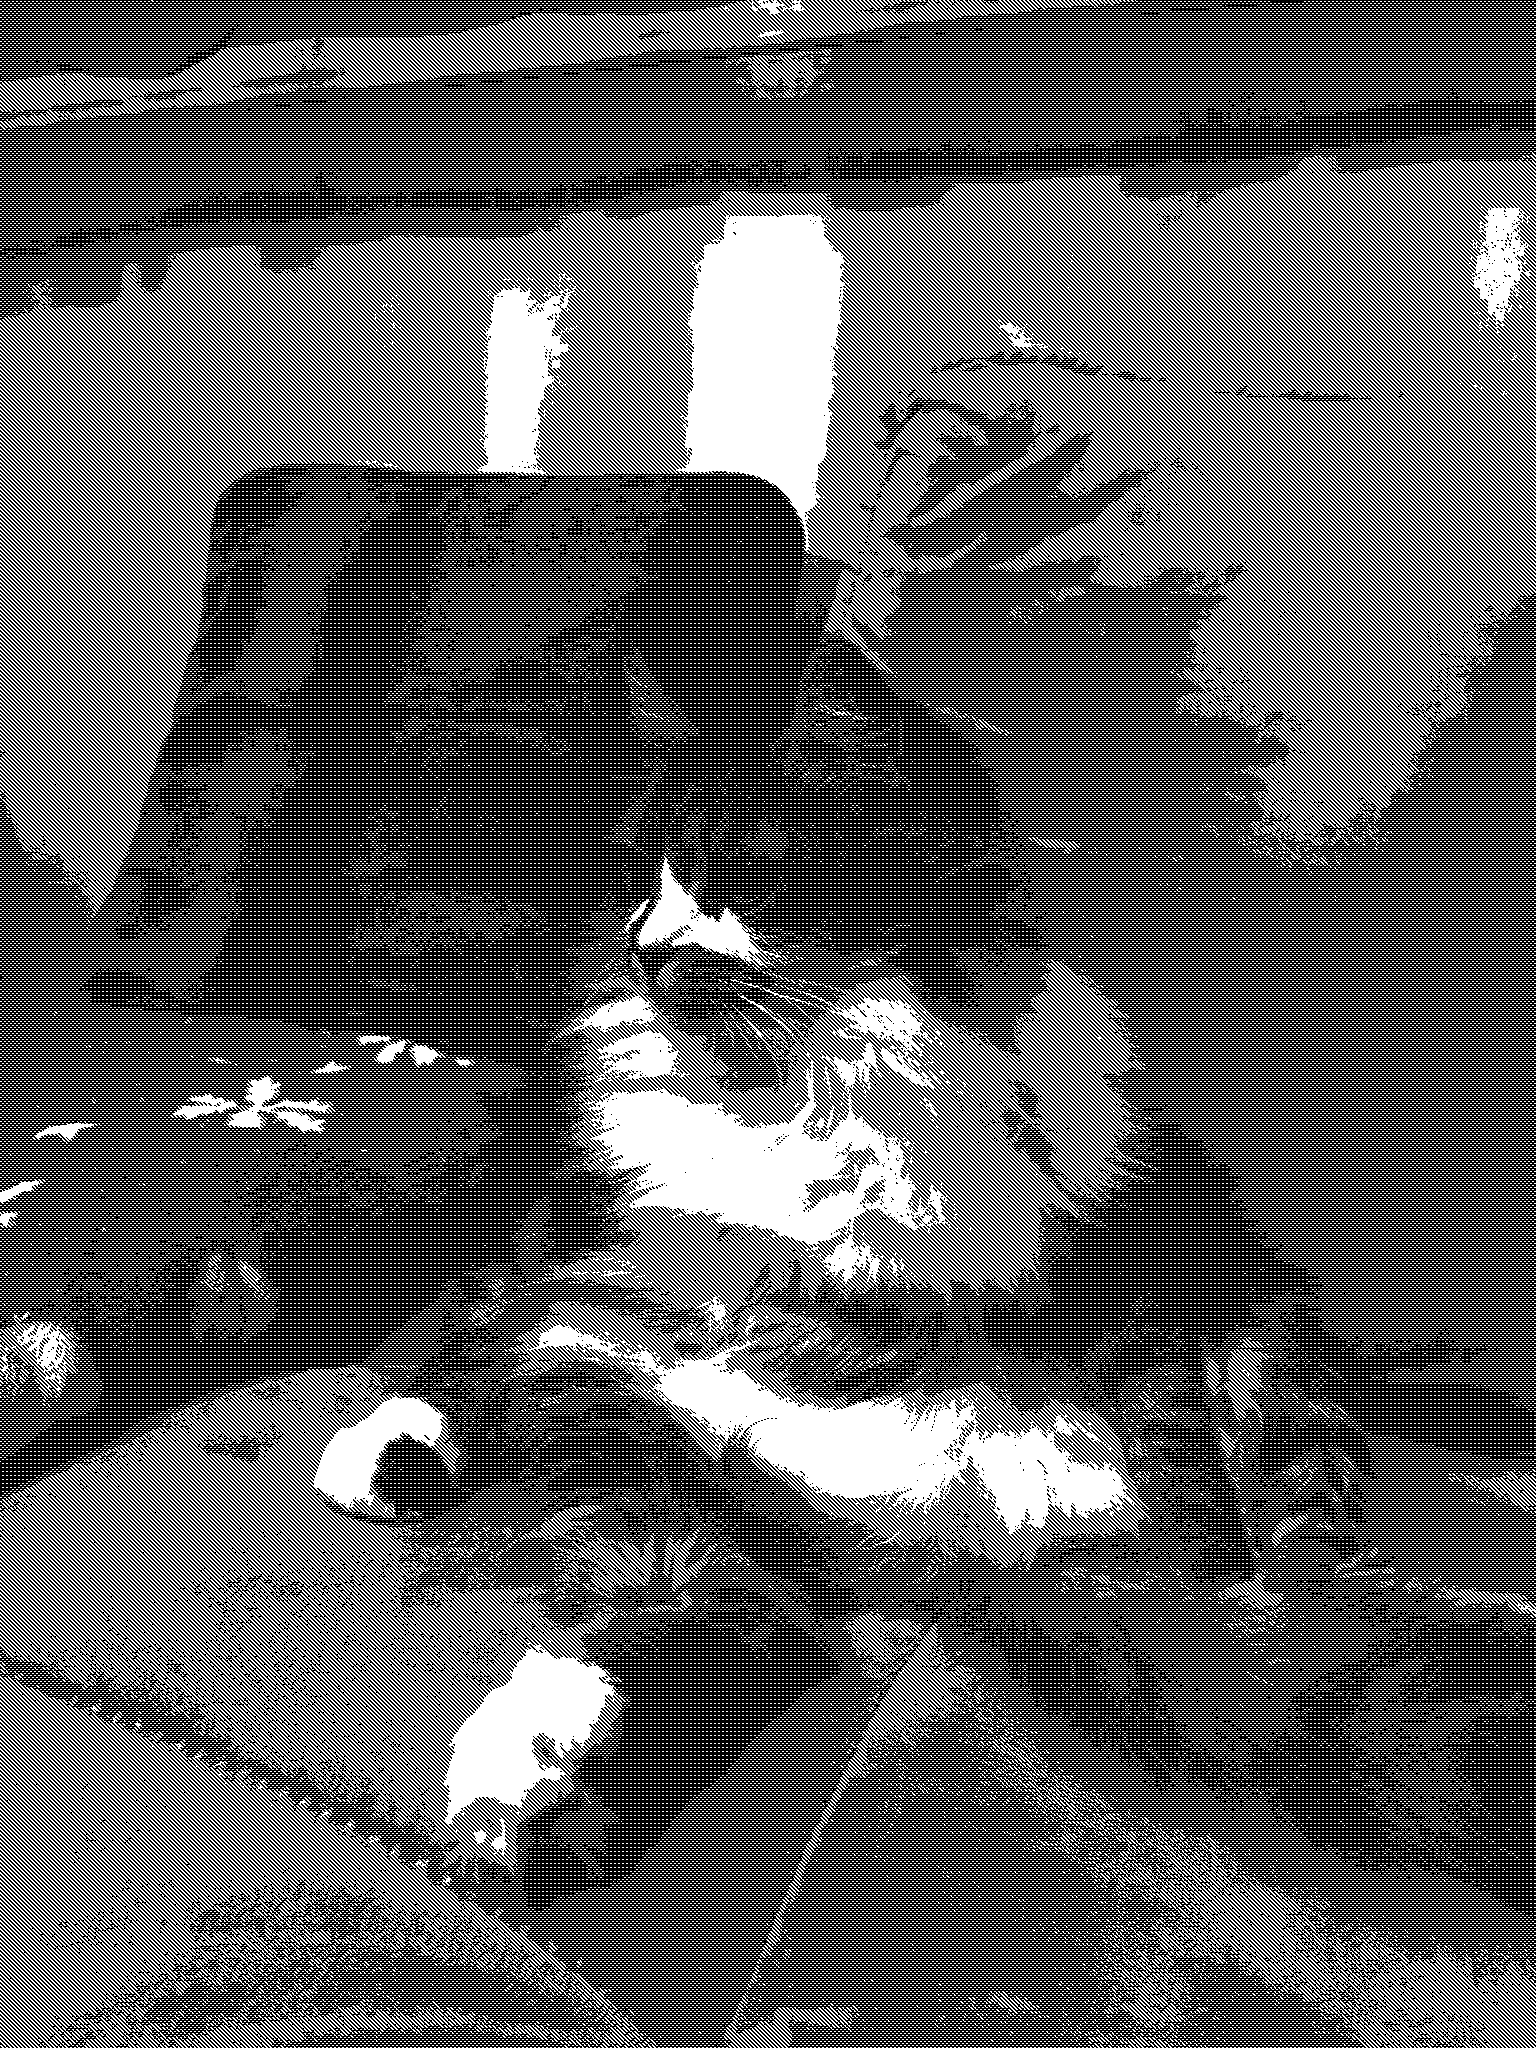
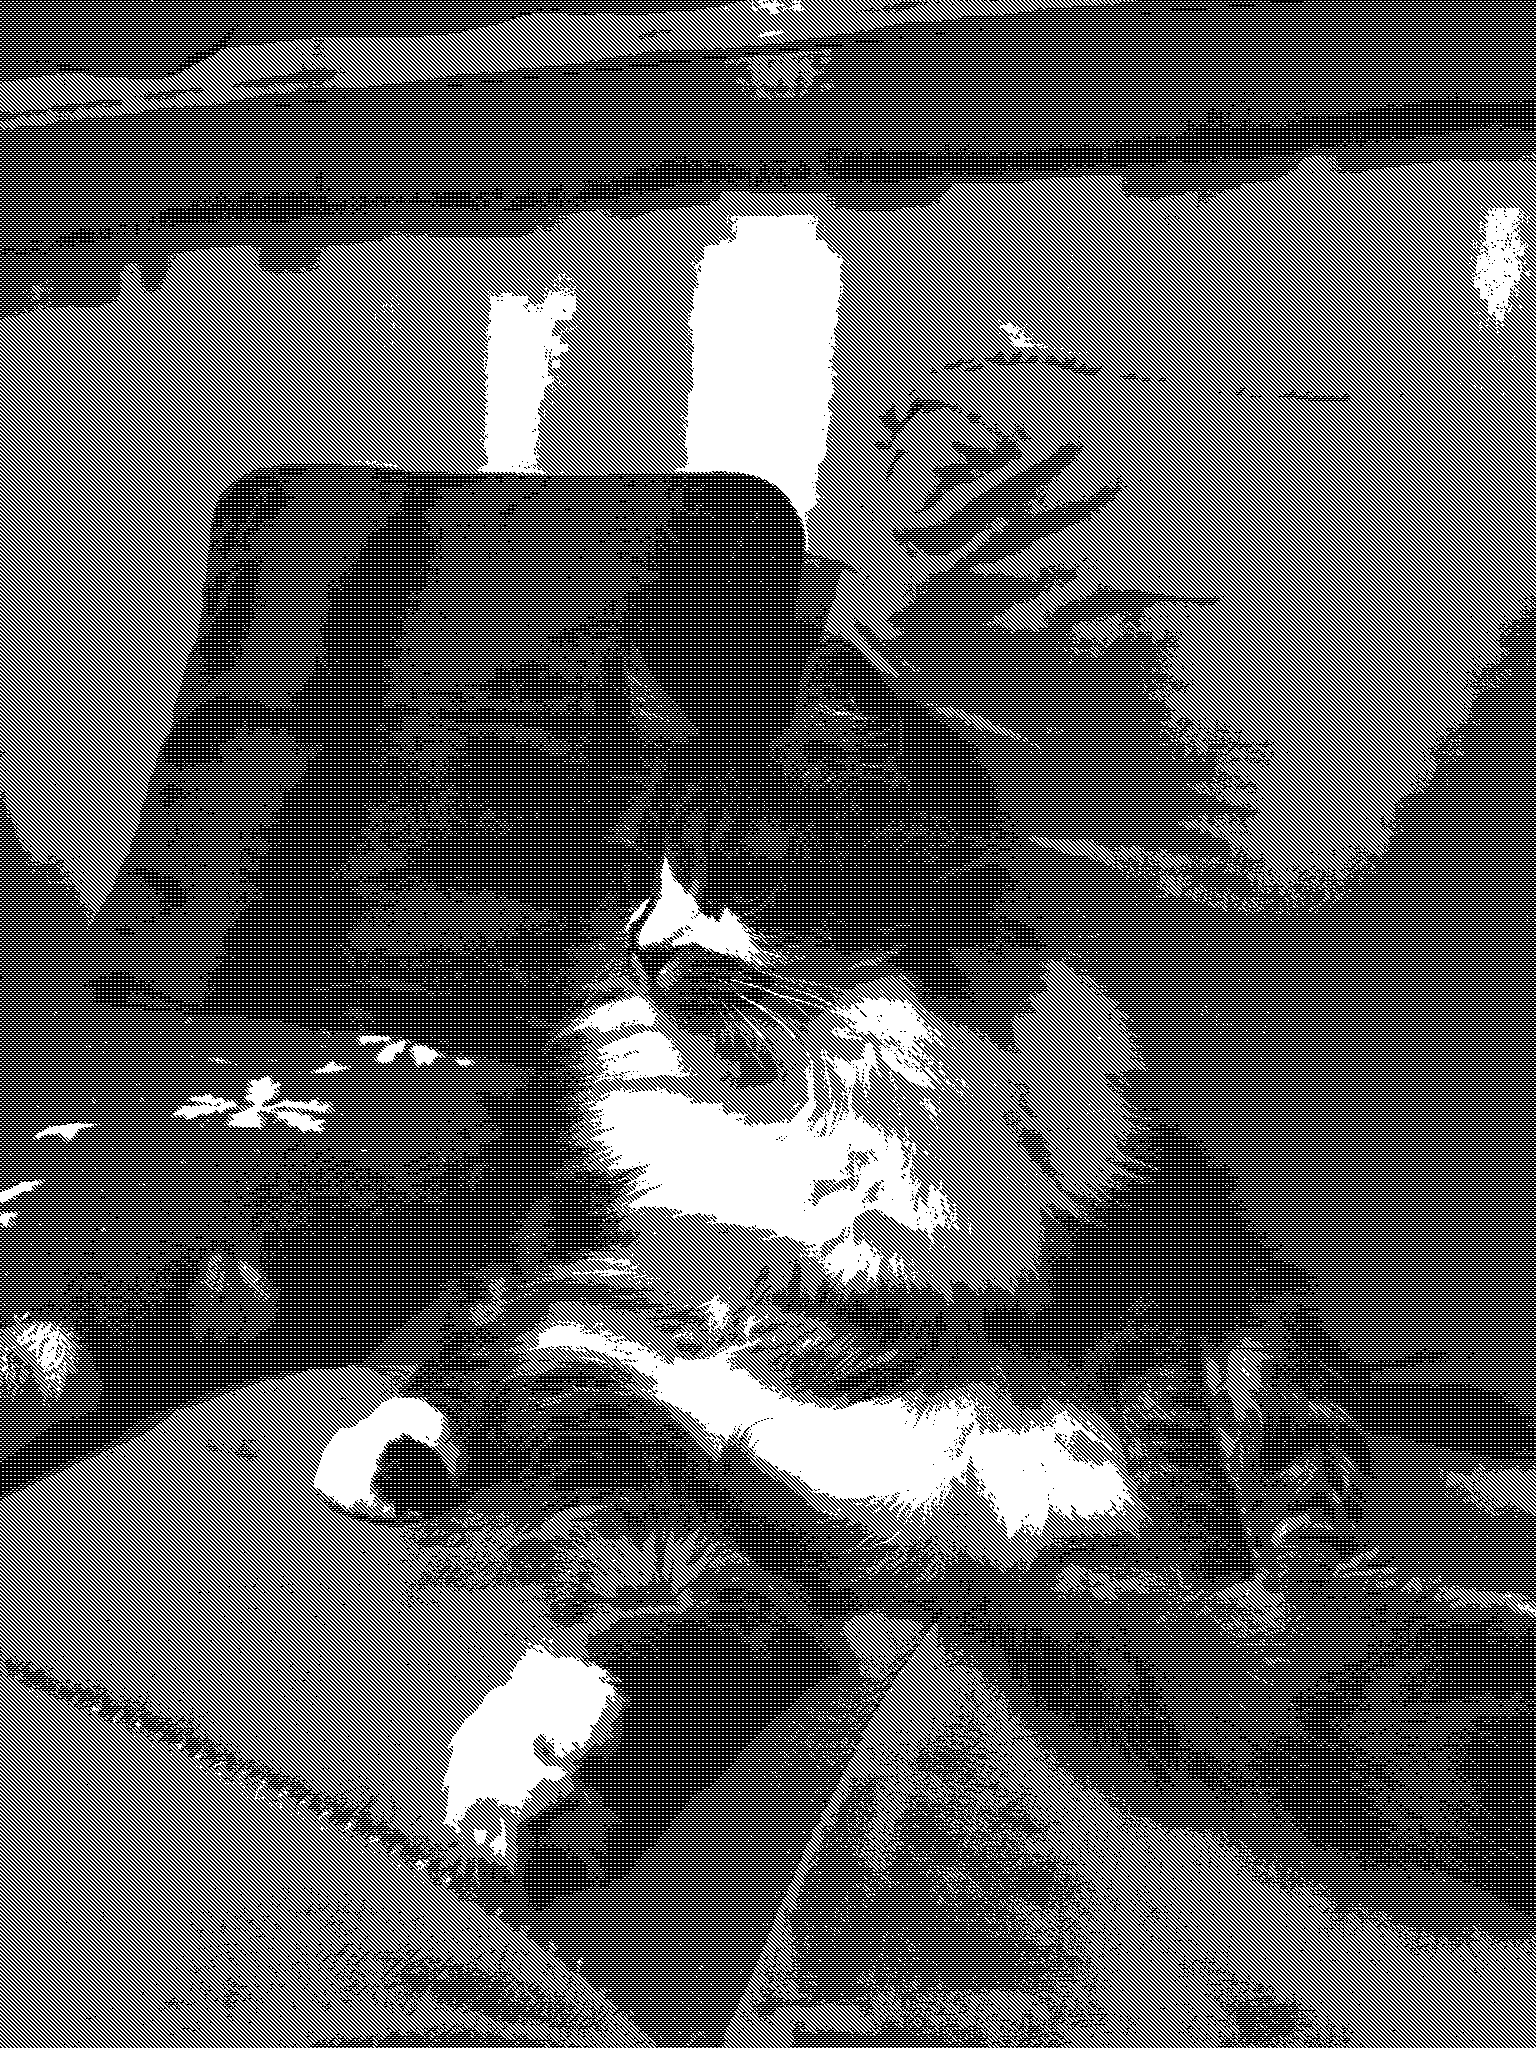
modif3

diff --git a/src/exos_perso.cpp b/src/exos_perso.cpp
@@ -130,8 +130,8 @@ void peinture_huile(sil::Image const& image)
                         // Couleur du pixel voisin
                         glm::vec3 const couleur{image.pixel(px, py)};
 
-                        // Calcul de sa luminosité en faisant la moyenne de ses trois canaux RGB.
-                        float const luminosite{(couleur.r + couleur.g + couleur.b) / 3.f};
+                        // Calcul de sa luminosité
+                        float const luminosite = 0.2126f * couleur.r + 0.7152f * couleur.g + 0.0722f * couleur.b;
 
                         // Attribution du pixel à un niveau de luminosité : la multiplication par nb_niveaux répartit les luminosités entre les différentes catégories
                         // std::min évite de dépasser le dernier indice du tableau
@@ -232,8 +232,8 @@ void hachures(sil::Image const& image)
             // Couleur du pixel original
             glm::vec3 const couleur{image.pixel(x, y)};
 
-            // Luminosité moyenne du pixel à partir des trois canaux RGB
-            float const luminosite{(couleur.r + couleur.g + couleur.b) / 3.f};
+            // Calcul de sa luminosité
+            float const luminosite = 0.2126f * couleur.r + 0.7152f * couleur.g + 0.0722f * couleur.b;
 
             // La couleur de départ est le blanc
             float valeur{1.f};
@@ -315,7 +315,7 @@ void low_poly(sil::Image const& image)
     sil::Image nouvelle_image{image.width(), image.height()};
 
     // Taille des cellules de la grille qui sert à construire les triangles : une petite valeur produit davantage de triangles et conserve plus de détails
-    int const taille{15};
+    int const taille{12};
 
     // Parcours de l'image par cellules carrées de taille "taille"
     for (int x{0}; x < image.width(); x += taille)
@@ -411,8 +411,8 @@ void vision_thermique(sil::Image const& image)
             // Couleur du pixel original
             glm::vec3 const couleur{image.pixel(x, y)};
 
-            // Calcul de la luminosité moyenne à partir des trois canaux RGB : sert à choisir la couleur thermique de remplacement
-            float const luminosite{(couleur.r + couleur.g + couleur.b) / 3.f};
+            // Calcul de sa luminosité : sert à choisir la couleur thermique de remplacement
+            float const luminosite = 0.2126f * couleur.r + 0.7152f * couleur.g + 0.0722f * couleur.b;
 
             glm::vec3 nouvelle_couleur;
 

diff --git a/src/main.cpp b/src/main.cpp
@@ -503,7 +503,7 @@ int main()
         sil::Image image{"images/chat.jpg"};
         vision_thermique(image);
     }
-      
+ 
         
 
     return 0;

diff --git a/README.md b/README.md
@@ -487,6 +487,7 @@ Cet effet donne à l'image un aspect de peinture à l'huile. Pour chaque pixel, 
 | ![Image originale](images/chat.jpg) | ![Pointillisme](images/exos_perso/pointillisme.png) |
 
 Cet effet s'inspire de la technique du pointillisme, qui consiste à composer une image à partir de petits points de couleur. L'image est d'abord remplie de blanc, puis des cercles sont dessinés à intervalles réguliers. Chaque cercle reprend la couleur du pixel correspondant dans l'image originale.
+Selon la valeur du rayon et de l'espacement, l'image paraît plus ou moins claire dûe au fond blanc des espaces entre les points.
 
 
 ### Exercice 5 — Hachures
@@ -506,6 +507,7 @@ Cet effet transforme l'image en dessin noir et blanc à l'aide de motifs de lign
 | ![Image originale](images/chat.jpg) | ![Low Poly](images/exos_perso/low_poly.png) |
 
 Cet effet simplifie l'image en la découpant en triangles. Chaque triangle est rempli avec une couleur prélevée dans l'image originale, à proximité de son centre. L'ensemble forme une mosaïque géométrique qui conserve les principales couleurs et formes de l'image.
+On peut distinguer plus ou moins les triangles selon la valeur choisie pour la taille des cellules de la grille.
 
 
 ### Exercice 7 — Néon
